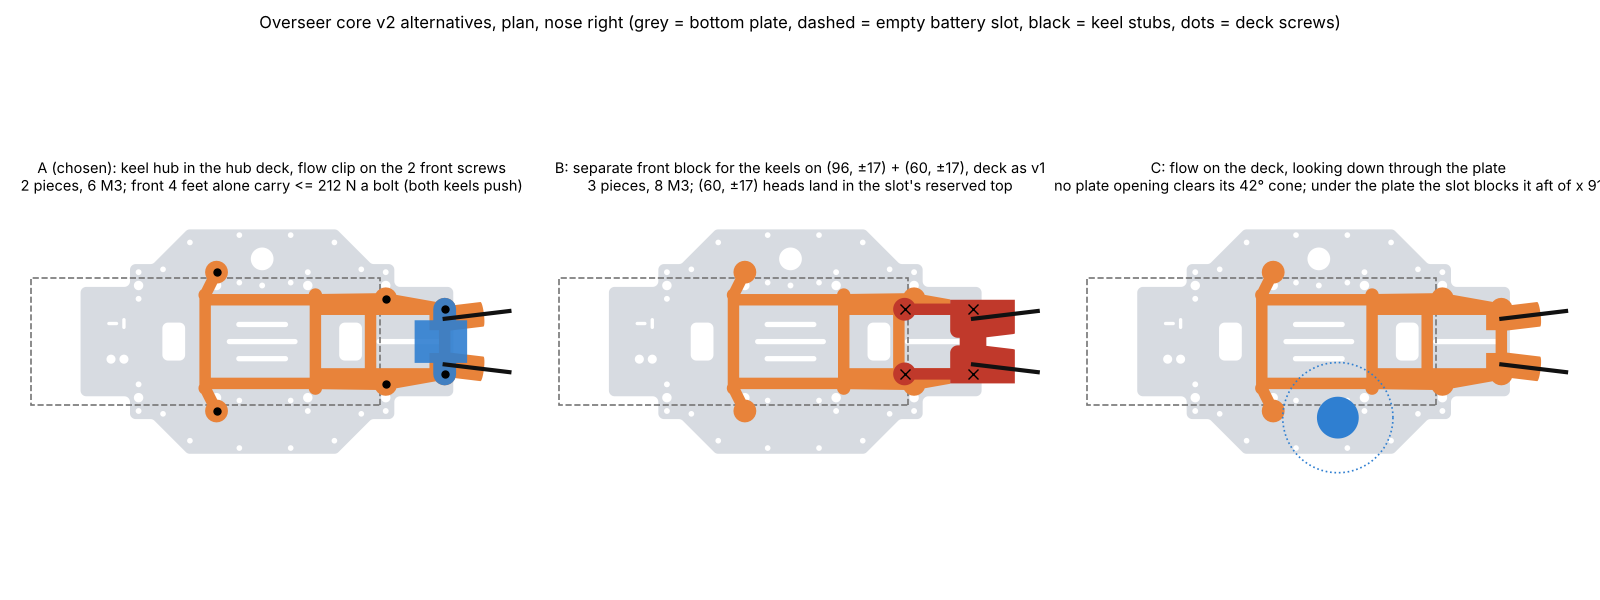
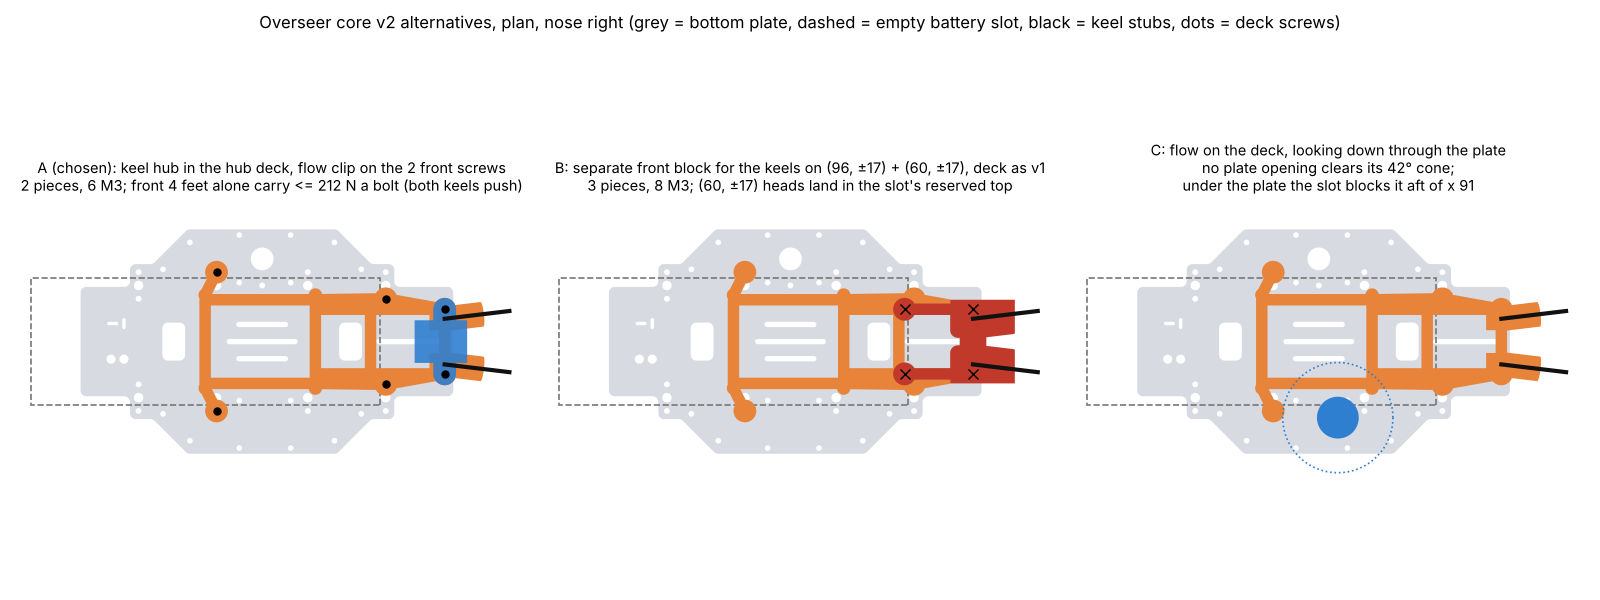
overseer_core v2: re-review PASS nits (bearing case, previews, cage ask numbers, docstring)
Claude-Session: https://claude.ai/code/session_01EtHMZN7xH5JE5rcYbxgeu2

Changed region(s): [[0.6562, 0.24, 1.0, 0.33]]

diff --git a/nox/overseer/core_v2.py b/nox/overseer/core_v2.py
@@ -8,11 +8,11 @@ generate the part thats on the battery, the drone side just have an empty rectan
 v2 (from v1 round 5, PR 123):
   FC stack   unchanged: MicoAir743-Lite on a 4-in-1 ESC straight on the top plate, turned 45° into the plate's slots, M3 studs.
   hub deck   PETG on the bottom plate, now one piece with the keel front hub: 6 feet, M3 x 8 up from under the plate into Ø4.0
-             heat-set inserts in the feet ((24, ±36.5), (-65, ±22.5) Ø3.1 and (96, ±17) Ø3.5, every one a 360° hole in the STEP);
+             heat-set inserts in the feet ((-24, ±36.5), (65, ±22.5) Ø3.1 and (96, ±17) Ø3.5, every one a 360° hole in the STEP, every head outside the slot);
              the Pi 5 on 4 posts, the UBEC + buck bays on the front wing, and 2 keel sockets (6.2 x 15, Spark 27 Oct coupons) on the
              head's keel roots (96, ±12, 8) aimed at its lugs, so the L2 head's keels land on the core (layout v5 links)
   flow clip  PETG under the front wing: the MTF-02P pocket (lens down, ahead of the battery slot so its 42° view clears it),
-             clamped by the 2 front feet's screws (no screws of its own)
+             clamped under its 3.0 flange by the 2 front feet's screws (no screws of its own)
   battery    the drone side is an empty rectangular slot (the receiver v2 envelope in pose, the latch set's masses kept for
              balance and loads); no sled, nothing generated there until the latch is designed
 Every screw goes straight in with a screwdriver in assembly order. Not this session's: arms, cage nodes and tubes (the keels'

diff --git a/nox/overseer/core_v2_view.py b/nox/overseer/core_v2_view.py
@@ -62,7 +62,7 @@ feet = [tuple(f) for f in r["feet_xy"]]
 fig2, axs = plt.subplots(1, 3, figsize=(16, 6), facecolor="white")
 T_ = ["A (chosen): keel hub in the hub deck, flow clip on the 2 front screws\n2 pieces, 6 M3; front 4 feet alone carry <= 212 N a bolt (both keels push)",
       "B: separate front block for the keels on (96, ±17) + (60, ±17), deck as v1\n3 pieces, 8 M3; (60, ±17) heads land in the slot's reserved top",
-      "C: flow on the deck, looking down through the plate\nno plate opening clears its 42° cone; under the plate the slot blocks it aft of x 91"]
+      "C: flow on the deck, looking down through the plate\nno plate opening clears its 42° cone;\nunder the plate the slot blocks it aft of x 91"]
 for k, ax in enumerate(axs):
     patch(ax, plate2, "#d7dbe1"); patch(ax, slot2, "none", "#777", 1, 1.2, "--")
     if k in (0, 2): patch(ax, deck2, "#e8833a")

diff --git a/runs/overseer_core/v2/summary.md b/runs/overseer_core/v2/summary.md
@@ -13,7 +13,7 @@ Script `nox/overseer/core_v2.py`, pictures `nox/overseer/core_v2_view.py` -> `pr
 ## Alternatives weighed
 - B: a separate front block for the keels on (96, ±17) + (60, ±17), deck as v1: 3 pieces, 8 M3, 4 bolts within 36 of each keel root; but (60, ±17) heads land in the slot's reserved top. A now takes B's strength in one piece: 4 front feet (96, ±17) + (65, ±22.5) triangulated, all outside the slot.
 - C: flow on the deck, looking down through the plate: the plate has no opening near the front that clears a 42° cone, and under the plate the slot blocks any view aft of x 92. Rejected.
-- Keel bolts (both keels push 387 N, F): rigid deck 128 N a bolt over the 6; compliant-deck bound (the front 4 feet alone) 212 N a bolt (E). An M3 insert in PETG holds ~600 N pull-out (E); the Ø3.5 front holes slip 0.25 radial, so the joint is friction-held by M3 preload (~1.5 kN x 0.2 = 300 N a bolt, E) above 212. The topology run reports the FE bolt forces.
+- Keel bolts (both keels push 387 N, F): rigid deck 128 N a bolt over the 6; compliant-deck bound (the front 4 feet alone) 212 N a bolt (E). Preload is capped by the insert's ~600 N pull-out (E), so friction holds ~120 N a bolt (x 0.2): flight loads (keels <= ~40 N, E) stay in friction; a crash slips the Ø3.5 front holes' 0.25 radial play and runs in bearing, ~34 MPa on the carbon plate and ~9 MPa on the insert (E), within both. DEFAULT: accept the 0.25 play (alternative: ream the two front holes to Ø3.1 is not possible, a sleeve Ø3.5/3.0 is). The topology run reports the FE bolt forces.
 
 ## Checks (C on E)
 x arms, Pi, bays, stack, slot: 0 mm³; flow view clear; access 35/35; keel tubes inside the bores (cut in the run). Fit FAIL 26.5 mm³: the flow clip's nose and the cage's parked front core-tie root (100.5, 0, -1) (body nodes parked by Spark; asked the cage to keep off). Probes FAIL at -X (slot unshielded) and mass 147 % are the cage's / whole drone's, as in v1.
@@ -27,3 +27,9 @@ x arms, Pi, bays, stack, slot: 0 mm³; flow view clear; access 35/35; keel tubes
 6. Clip mass 5.0 g (M) on its 5 g slot.
 7. Cage ask carries the numbers (nose tie root 98.1..102.9, z -3.9..1.9 vs MTF-02P to x 104.8, clip to x 106.8); fallback on our side (sensor turned 90° at x 92) kept in reserve.
 Smoke (CLAUDE.md Measure before quoting) found two setup faults before any run: the keel bosses had no room to be joined (hub room x 80..118, |y| 20, z 0..16 opened) and the zip-tie tunnels cut the deck in two at x 68 (now channels on the plate face, 4.0 above).
+
+Re-review 27 Oct: PASS. Nits fixed: bearing case above, previews `runs/overseer_core_coupons/v2/*_preview.png`, cage ask numbers (clip to x 107.8, 28.0 mm³), C title wrapped, docstring feet.
+
+## Print files (solid_check PASS on each, print_orient)
+- `print/overseer_flow_clip_v1.stl`: 5.0 g, floor down, bed 507 mm², overhang 234 mm², 9.8 tall; preview `runs/overseer_core_coupons/v2/overseer_flow_clip_v1_preview.png`
+- `print/overseer_core_coupon_keel_hub_v2.stl`: 12.0 g, plate face down, bed 869 mm², overhang 653 mm² (the bosses past the seats: tree supports), 17.6 tall; preview `runs/overseer_core_coupons/v2/overseer_core_coupon_keel_hub_v2_preview.png`

diff --git a/nox/dimensions.md b/nox/dimensions.md
@@ -273,7 +273,7 @@ One latch + cartridge standard for every pack: the v2 squeeze latch (J) as one m
 | Assembly order (every bolt with a straight screwdriver, Spark) | 1. hub deck: 4 M3 x 8 up from below into its inserts (slot empty); 2. flow clip: 2 M3 x 10 up into the deck's front inserts; 3. Pi: 4 M2.5 down; 4. UBEC, buck zip-tied; 5. on the bench: 4 M3 x 30 up through the top plate's slots as studs, nylon standoff nut on top of each (+X stud: Ø9 washer); 6. arms, top plate; 7. stack onto the studs, 4 M3 nylon nuts from above, before the cage shell (its top tubes cross 2 nut lines); 8. keels into the deck's sockets with the head (epoxy). | C / DEFAULT |
 | Service | FC service: nothing off. Pi service: boots from a USB stick in an aft port (DEFAULT; its microSD end is 2.5 from the UBEC, unused), plugs aft; the Pi itself: top plate off (8 M3, the stack comes with it on its studs) | C / DEFAULT |
 | Floor contact | TPU feet on 4 opening ring nodes of the cage (cage session; review alternative B: no cantilevered skids, no rails in the prop wash), contact <= 6 under the lenses (z <= -82.9), footprint round the CG (61.4, -0.2, 15.8) | DEFAULT |
-| Asks of other sessions | **cage**: the keels' front hub is the core's (drop the block x 86..99 from the head; keel ends 5 past the v5 roots); the front core-tie root (100.5, 0, -1) overlaps the flow clip's nose (26.5 mm³): keep body nodes off x 83..107, \|y\| <= 10 under the plate and the flow's view cone; shell on this belly (unshielded slot at -X); top tubes off the stack's nut lines (sent 27 Oct). **arms**: gap 45, roots u >= 58 for \|v\| <= 21; motor leads over the arm tops; the L2 braces root on the front arm beams (72.95, ±62.11, 46.5). **latch**: the slot is its own | |
+| Asks of other sessions | **cage**: the keels' front hub is the core's (drop the block x 86..99 from the head; keel ends 5 past the v5 roots); the front core-tie root (100.5, 0, -1) overlaps the flow clip's nose (to x 107.8, 28.0 mm³): keep body nodes off x 83..107, \|y\| <= 10 under the plate and the flow's view cone; shell on this belly (unshielded slot at -X); top tubes off the stack's nut lines (sent 27 Oct). **arms**: gap 45, roots u >= 58 for \|v\| <= 21; motor leads over the arm tops; the L2 braces root on the front arm beams (72.95, ±62.11, 46.5). **latch**: the slot is its own | |
 
 **Mounting holes, every part this section holds (checked 27 Oct; plate holes re-read from the STEP's cylinder faces, 360° only)**
 | Part | Holes and screws | Positions (drone frame) | Source | Tag |
